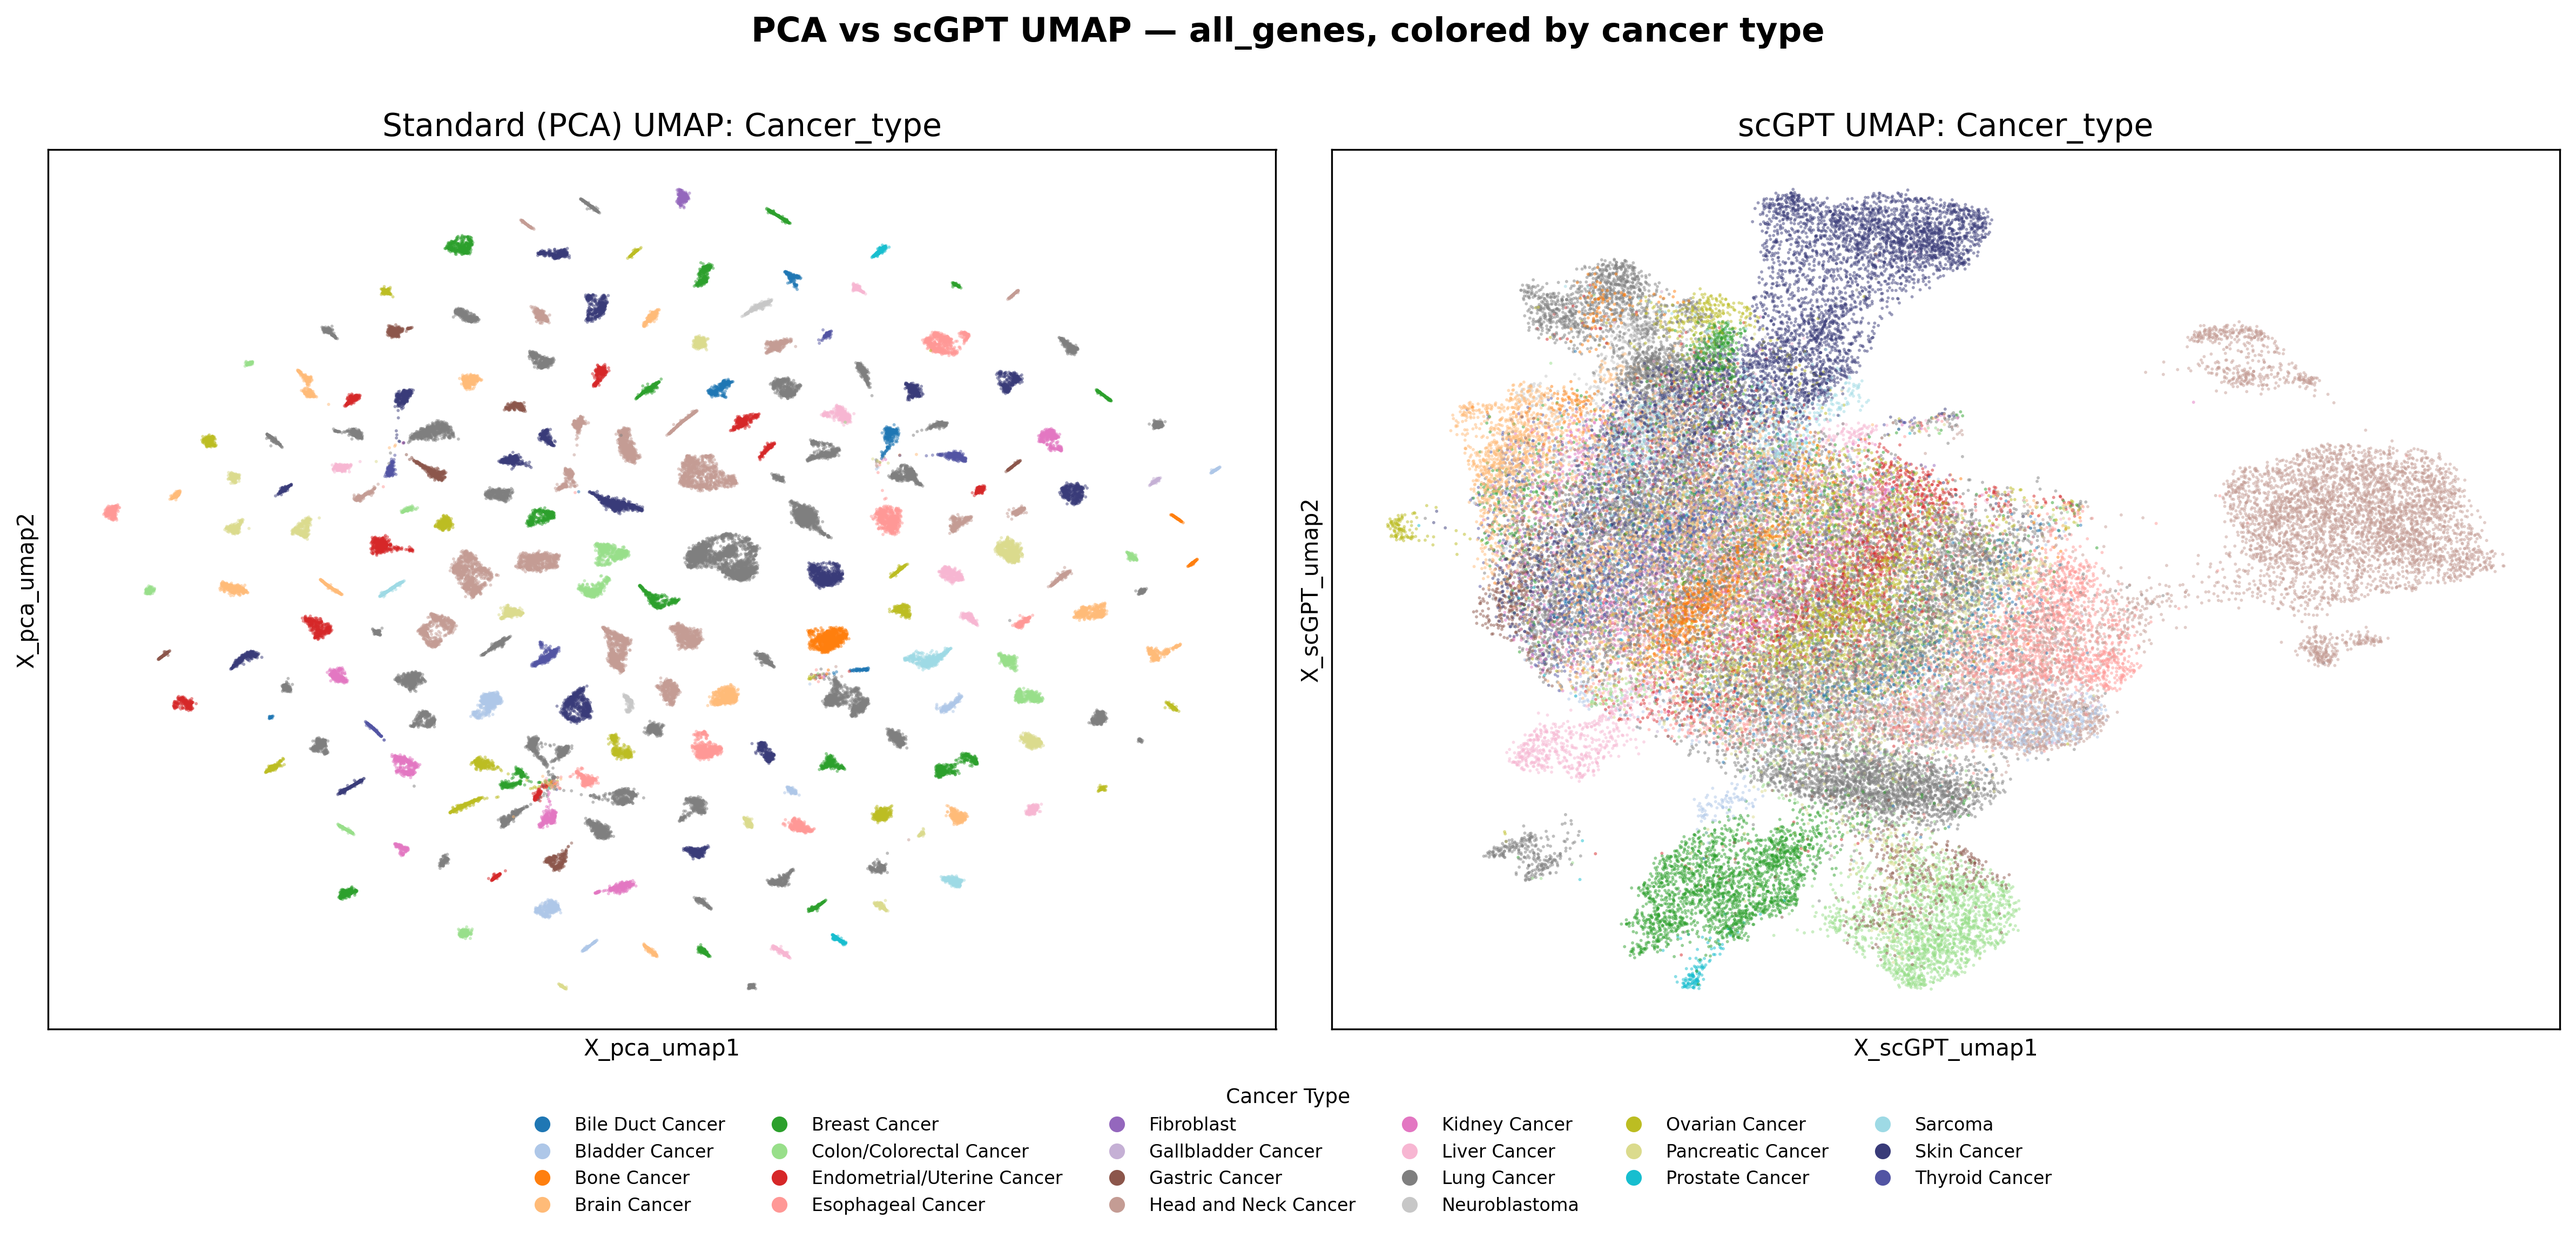
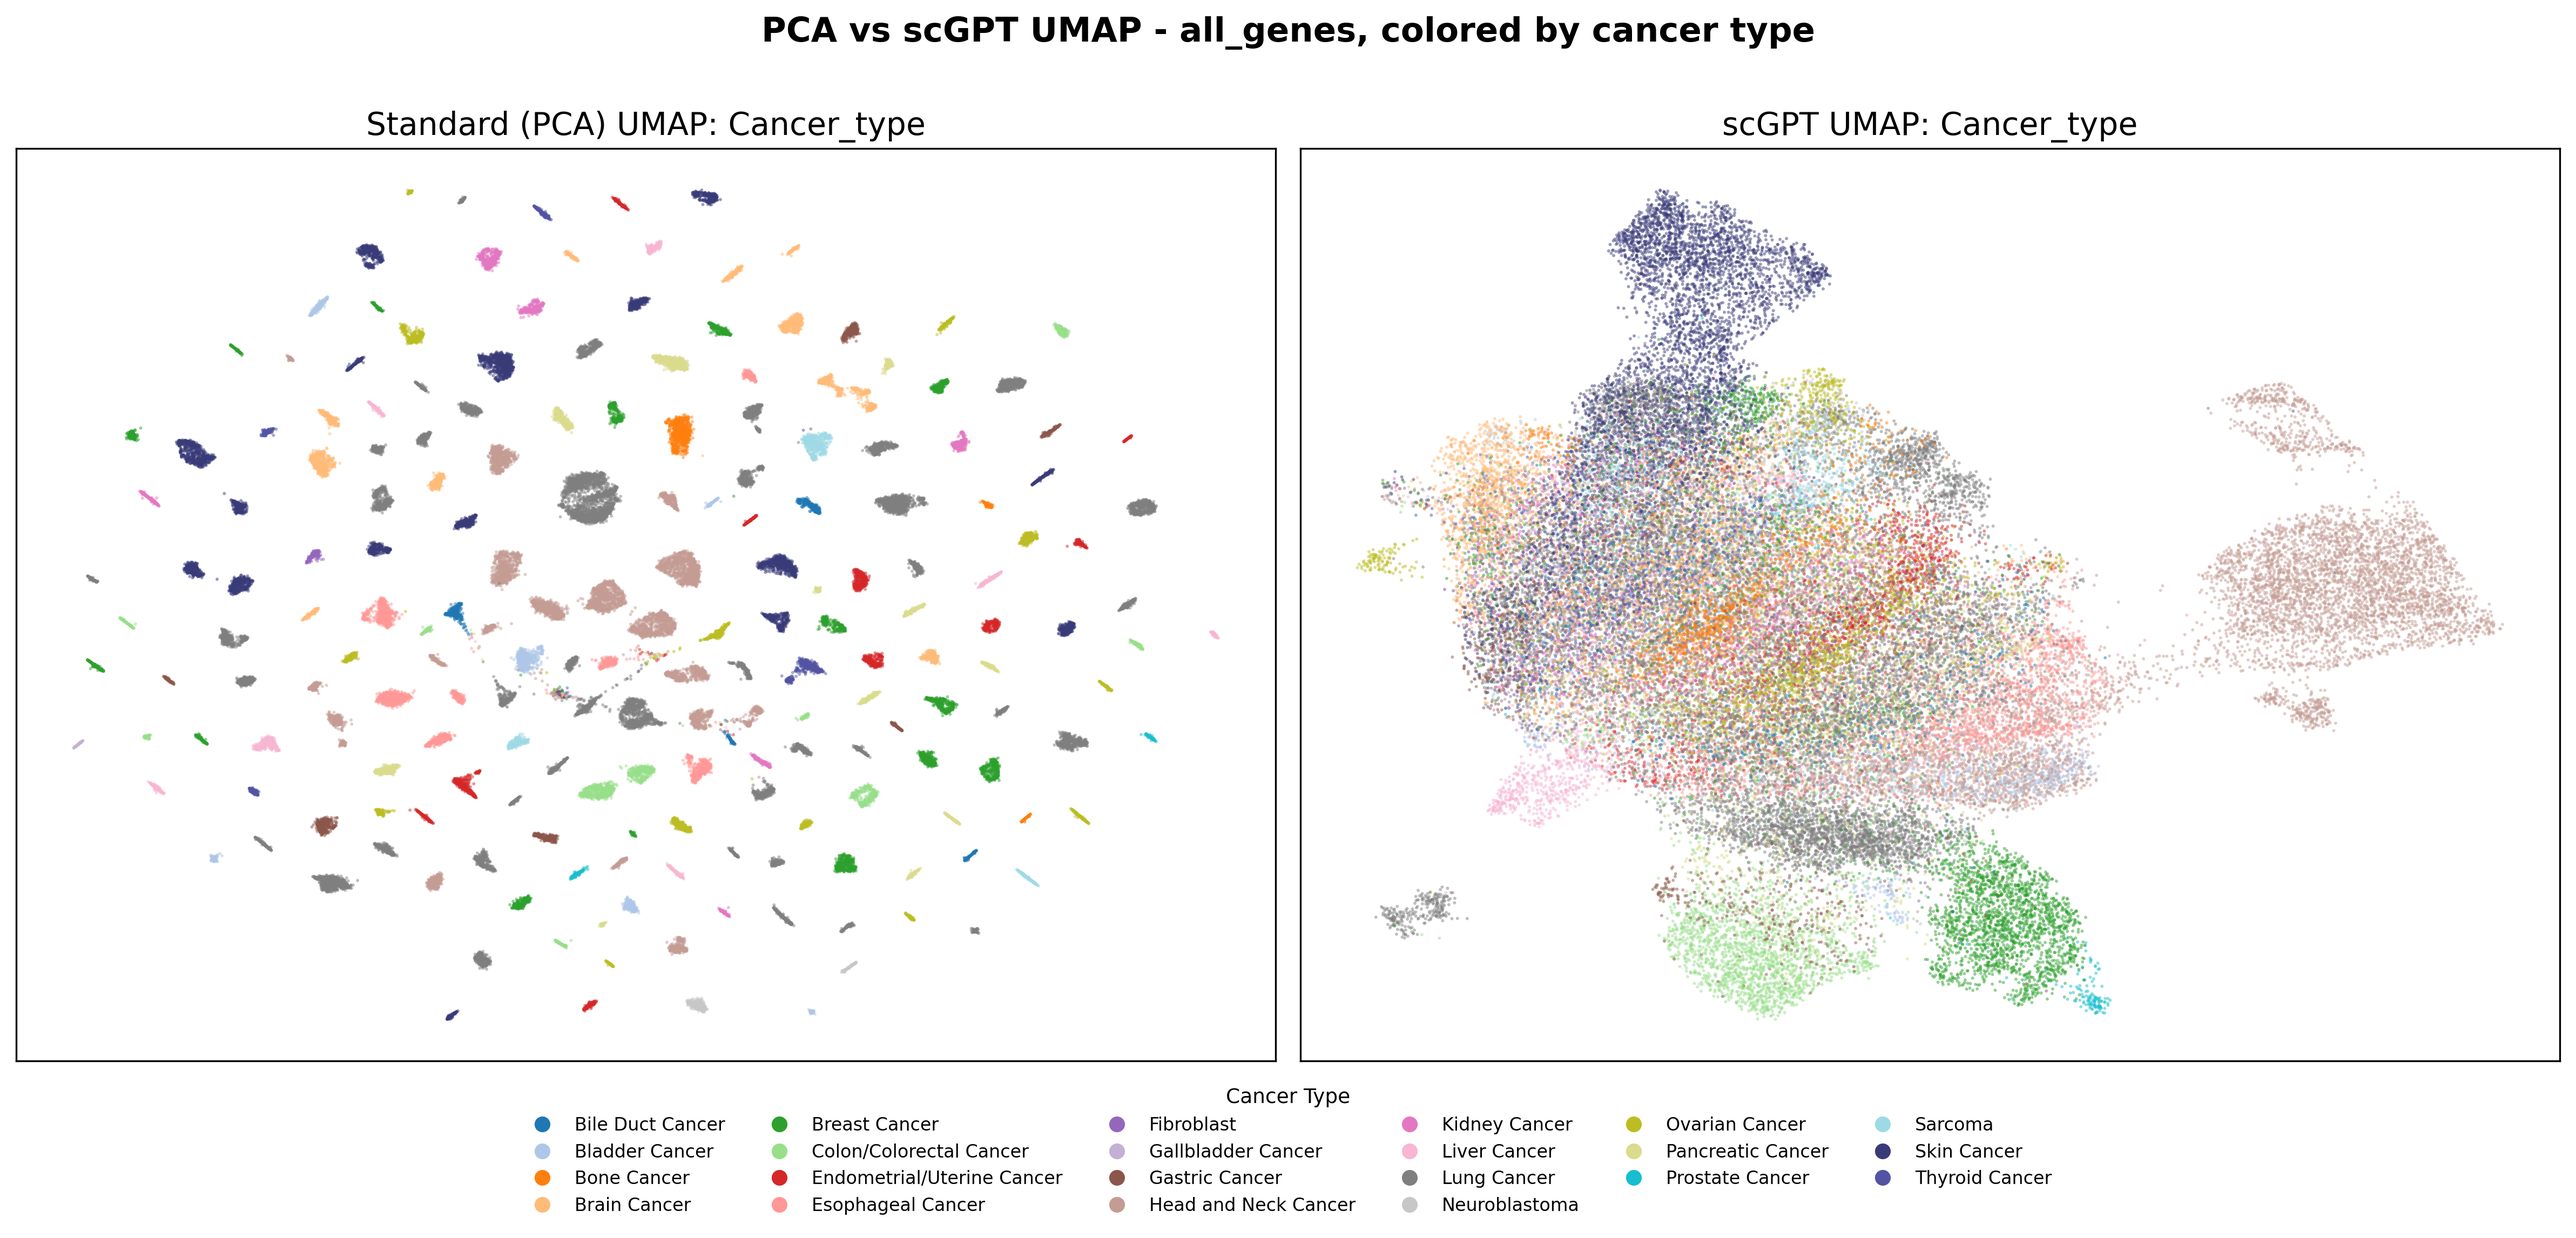
report: the motivating UMAP was July's render, and its caption asserted what Results refute
Two defects in Figure 1, the figure the whole introduction rests on.

1 · THE FILE WAS STALE. report/figures/fig_umap.png was the render committed in 4e811b2
  (15.07.2026) -- a different file from the live output, computed on representations that
  predate the gene-symbol repair, the preprocessing corrections and the re-embedding. The
  report was therefore showing a figure a standard run no longer produces, which is the
  rule this project applies everywhere else. Refreshed from
  notebooks/outputs/embeddings/umap_cancertype_pca_vs_scgpt.png (13.08 sweep); the two are
  now byte-identical. The qualitative reading is unchanged.

2 · THE CAPTION WAS WRONG TWICE OVER.

  It read "scGPT removes the tissue-of-origin bias that dominates a PCA baseline ... PCA
  separates the data into tissue-specific clusters". The islands are NOT tissues: a single
  colour recurs across many of them, so what PCA resolves is individual CELL LINES, nested
  inside lineage. Calling them tissue-specific misdescribes the figure the sentence is
  about.

  And "bias" is a verdict, not a description -- it presupposes the structure is harmful.
  This project's own Results say the opposite: the response label is defined per cell line,
  so the structure PCA retains is precisely the structure the label varies over, which is
  WHY the principal-component arm predicts better (between-to-within 1.405 vs 1.168,
  04_results). A reader met the caption asserting scGPT's advantage on page 2 and the
[…]

diff --git a/report/sections/02_introduction.tex b/report/sections/02_introduction.tex
@@ -39,7 +39,11 @@ latent-space analysis illustrates the effect (Figure~\ref{fig:umap}). When cells
 type, full-transcriptome PCA is dominated by tissue-specific markers and separates the data into distinct
 lineage clusters, so that a downstream model could achieve low error simply by classifying the cell line.
 The scGPT embeddings \cite{scgpt} instead project the same cells onto a continuous, shared manifold in
-which tissues are intermixed. The project therefore diverges from prior work such as PERCEPTION
+which tissues are intermixed. \revision{The islands in that baseline are individual cell lines rather
+than tissues, which matters for how the figure should be read: what separates them is the same
+granularity at which the response label is defined. Section~\ref{sec:results} finds that this works
+in the baseline's favour on the present task, so the analysis below motivates the hypothesis without
+confirming it.} The project therefore diverges from prior work such as PERCEPTION
 \cite{perception}, which pre-trained on bulk data to predict PRISM response, by focusing on reusable
 representation learning: it evaluates whether transformer-based single-cell embeddings improve
 drug-response prediction over a standard PCA baseline, and it is designed to extend to multi-task learning
@@ -74,9 +78,17 @@ very within-line variation it would have to express.}
 \begin{figure}[t]
 \centering
 \includegraphics[width=0.9\textwidth]{fig_umap.png}
-\caption{\textbf{scGPT removes the tissue-of-origin bias that dominates a PCA baseline.} Cells are embedded
-by full-transcriptome PCA (left) and by scGPT (right), reduced to two dimensions by UMAP and colored by
-cancer type. PCA separates the data into tissue-specific clusters, whereas scGPT projects the cells onto a
-continuous, shared manifold. Produced by \code{notebooks/analysis/qc/verify\_variants.ipynb}.}
+\caption{\textbf{PCA resolves individual cell lines; scGPT collapses them onto one shared manifold.}
+Cells embedded by full-transcriptome PCA (left) and by scGPT (right), reduced to two dimensions by UMAP
+and colored by cancer type. PCA separates the atlas into many compact islands; a single color recurs
+across a number of them, so the islands are individual \emph{cell lines} rather than tissues, nested
+within lineage. scGPT projects the same cells onto one continuous manifold in which cancer type is only
+partially organized. \textbf{This figure states the motivating hypothesis, and
+Section~\ref{sec:results} does not bear out the consequence drawn from it.} The structure PCA retains
+is between-line structure, and the response label is defined per cell line --- so it is precisely the
+structure the label varies over, which is why the principal-component arm predicts better here rather
+than worse. The between-to-within variance ratio that quantifies this, and the comparison it explains,
+are in Section~\ref{sec:results}. Produced by
+\code{notebooks/analysis/qc/verify\_variants.ipynb}; regenerated at the 13.08.2026 sweep.}
 \label{fig:umap}
 \end{figure}
